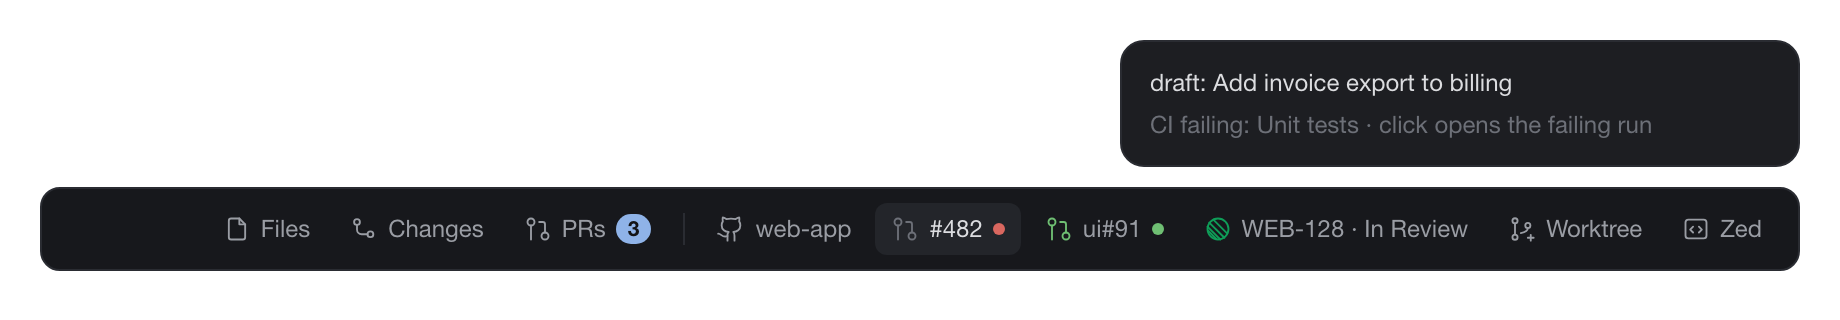
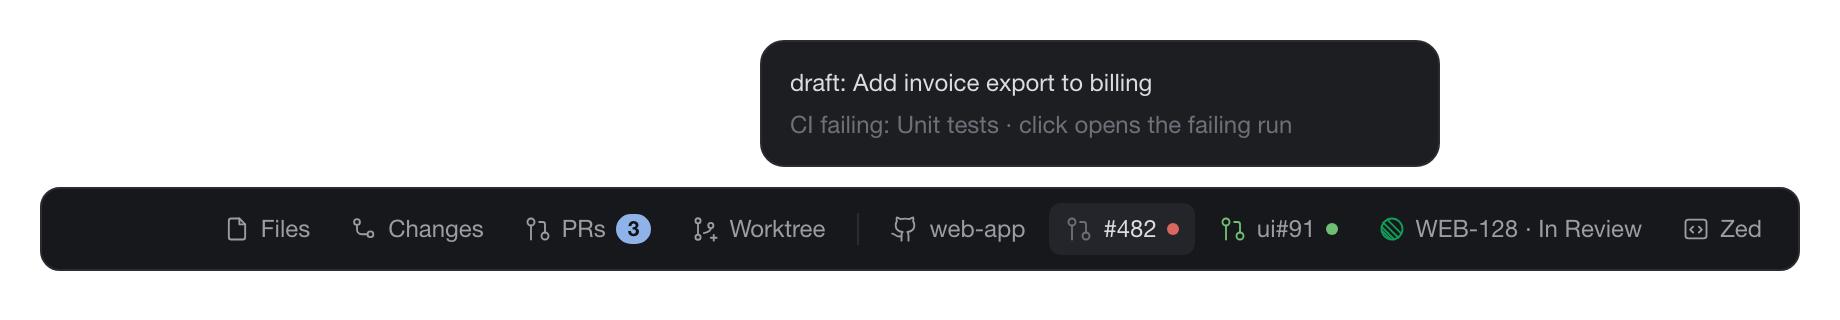
feat(quick-links): Worktree beside PRs, editor last
Top bar now reads PRs, Worktree | repo, PR, Linear, editor. README spells out
the Read-only Linear key.

Changed region(s): [[0.4027, 0.125, 0.9913, 0.5312], [0.3717, 0.6562, 0.8984, 0.75]]

diff --git a/docs/mockups/topbar.html b/docs/mockups/topbar.html
@@ -2,7 +2,7 @@
 <html><head><meta charset="utf-8"><link rel="stylesheet" href="style.css"></head>
 <body style="padding:20px">
 <div class="col" style="width:880px;align-items:flex-end;gap:10px">
-  <div class="dialog" style="width:340px;padding:12px 14px;font-size:12px;box-shadow:none">
+  <div class="dialog" style="width:340px;padding:12px 14px;font-size:12px;box-shadow:none;align-self:flex-start;margin-left:360px">
     <div style="color:var(--fg)">draft: Add invoice export to billing</div>
     <div class="dim" style="margin-top:4px">CI failing: Unit tests · click opens the failing run</div>
   </div>
@@ -10,12 +10,12 @@
     <div class="btn row"><i data-i="file"></i>Files</div>
     <div class="btn row"><i data-i="changes"></i>Changes</div>
     <div class="btn row"><i data-i="pr"></i>PRs<span class="count">3</span></div>
+    <div class="btn row"><i data-i="worktree"></i>Worktree</div>
     <div class="sep"></div>
     <div class="btn row"><i data-i="github"></i>web-app</div>
     <div class="btn row on"><i data-i="pr" style="color:var(--dim)"></i>#482<span class="dot red" style="width:6px;height:6px"></span></div>
     <div class="btn row"><i data-i="pr" style="color:var(--green)"></i>ui#91<span class="dot green" style="width:6px;height:6px"></span></div>
     <div class="btn row"><i data-i="linear" style="color:#0f9d58"></i>WEB-128 · In Review</div>
-    <div class="btn row"><i data-i="worktree"></i>Worktree</div>
     <div class="btn row"><i data-i="editor"></i>Zed</div>
   </div>
 </div>

diff --git a/custom-herdr/mods/quick-links/main.js b/custom-herdr/mods/quick-links/main.js
@@ -413,12 +413,15 @@ export default class QuickLinks extends View {
       .tooltip(waiting ? `${waiting} PR${waiting === 1 ? "" : "s"} waiting on your review` : "Pull requests")
       .child(svg(icon("pr")).size(14)).child("PRs")
       .when(waiting > 0, (el) => el.child(div().px(5).rounded(8).text_size(10.5).bg(t.accent).text_color(t.background).child(String(waiting))));
+    // PRs and Worktree together, then the focused branch's links, the editor last.
+    const tools = this.links.filter((l) => l.id === "worktree"), web = this.links.filter((l) => l.id !== "worktree");
     return h_flex().id("root").size_full().items_center().justify_end().pr(10)
       .bg(t.chrome).border_b(1).border_color(t.border)
       .child(h_flex().id("ql-content").flex_none().h_full().gap(3).items_center()
         .on_size_change((size) => this.fit(size.width))
         .when(hasPrs, (el) => el.child(prsButton))
-        .when(this.links.length > 0, (el) => el.child(div().w(1).h(16).mx(4).bg(t.border)))
-        .children(this.links.map(button)));
+        .children(tools.map(button))
+        .when(web.length > 0 && (hasPrs || tools.length > 0), (el) => el.child(div().w(1).h(16).mx(4).bg(t.border)))
+        .children(web.map(button)));
   }
 }

diff --git a/quick-links/mods/quick-links/main.js b/quick-links/mods/quick-links/main.js
@@ -413,12 +413,15 @@ export default class QuickLinks extends View {
       .tooltip(waiting ? `${waiting} PR${waiting === 1 ? "" : "s"} waiting on your review` : "Pull requests")
       .child(svg(icon("pr")).size(14)).child("PRs")
       .when(waiting > 0, (el) => el.child(div().px(5).rounded(8).text_size(10.5).bg(t.accent).text_color(t.background).child(String(waiting))));
+    // PRs and Worktree together, then the focused branch's links, the editor last.
+    const tools = this.links.filter((l) => l.id === "worktree"), web = this.links.filter((l) => l.id !== "worktree");
     return h_flex().id("root").size_full().items_center().justify_end().pr(10)
       .bg(t.chrome).border_b(1).border_color(t.border)
       .child(h_flex().id("ql-content").flex_none().h_full().gap(3).items_center()
         .on_size_change((size) => this.fit(size.width))
         .when(hasPrs, (el) => el.child(prsButton))
-        .when(this.links.length > 0, (el) => el.child(div().w(1).h(16).mx(4).bg(t.border)))
-        .children(this.links.map(button)));
+        .children(tools.map(button))
+        .when(web.length > 0 && (hasPrs || tools.length > 0), (el) => el.child(div().w(1).h(16).mx(4).bg(t.border)))
+        .children(web.map(button)));
   }
 }

diff --git a/docs/mockups/overview.html b/docs/mockups/overview.html
@@ -23,11 +23,11 @@
       <div class="btn row"><i data-i="file"></i>Files</div>
       <div class="btn row"><i data-i="changes"></i>Changes</div>
       <div class="btn row on"><i data-i="pr"></i>PRs<span class="count">3</span></div>
+      <div class="btn row"><i data-i="worktree"></i>Worktree</div>
       <div class="sep"></div>
       <div class="btn row"><i data-i="github"></i>web-app</div>
       <div class="btn row"><i data-i="pr" style="color:var(--green)"></i>#482<span class="dot green" style="width:6px;height:6px"></span></div>
       <div class="btn row"><i data-i="linear" style="color:#0f9d58"></i>WEB-128 · In Review</div>
-      <div class="btn row"><i data-i="worktree"></i>Worktree</div>
       <div class="btn row"><i data-i="editor"></i>Zed</div>
     </div>
     <div class="work row" style="align-items:stretch">

diff --git a/quick-links/RECIPE.md b/quick-links/RECIPE.md
@@ -20,7 +20,9 @@ folder, git remote and branch, and changes as you move between terminals.
   background is `selected` while that panel is showing, otherwise `chrome`.
   When PRs wait on your review it carries a count pill: 10.5px text, `accent`
   background, `background` text, 8px corners.
-- A 1px by 16px `border` divider, then the links:
+- **Worktree** (in a GitHub repo, with issue-worktree installed): the worktree
+  icon and "Worktree", beside PRs.
+- A 1px by 16px `border` divider (only when there are links after it), then the links:
   1. **Repo**: the GitHub icon and the repo name, e.g. `web-app`.
   2. **PR**: the PR icon tinted by state (open `ansi2`, merged `ansi5`, closed
      `ansi1`, draft `dim`), the label `#482`, then for open PRs a 6px CI dot
@@ -33,8 +35,7 @@ folder, git remote and branch, and changes as you move between terminals.
      API key: `WEB-140 · In Review` with the Linear icon in the status's Linear color,
      tooltip "In Review: <title>"; an issue moved to another team shows its new
      ID ("(was WEB-140)").
-  6. **Worktree**: the worktree icon and "Worktree".
-  7. **Editor**: a code icon and the editor's name, e.g. "Zed".
+  6. **Editor**, last: a code icon and the editor's name, e.g. "Zed".
 - Tooltips: the PR's state and title plus the CI result and the names of the
   failing checks; "owner/repo" on the repo; "Open <folder> in <editor>".
 

diff --git a/README.md b/README.md
@@ -80,10 +80,11 @@ Changes apply within a few seconds. Other knobs are constants at the top of each
 ## Linear issue status (optional)
 
 With a Linear API key, the top bar's Linear button reads `WEB-140 · In Review`
-with the status's color, and each worktree row shows its issue's status.
+with the Linear logo in the status's color, and each worktree row shows its
+issue's status.
 
 1. In Linear, **Settings → Account → Security & access → Personal API keys →
-   New key**, with read access only.
+   New key**. Give it **Read** permission only: the mods never write to Linear.
 2. Put it in your macOS Keychain (this prompts for it, so it stays out of your
    shell history):
 
